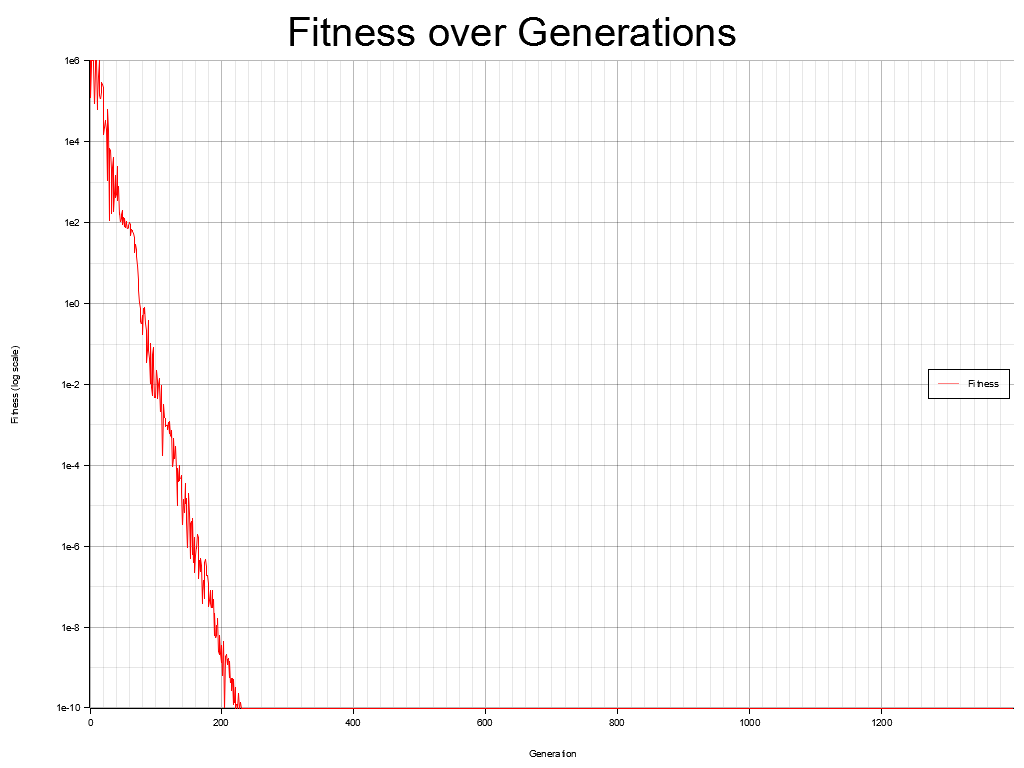
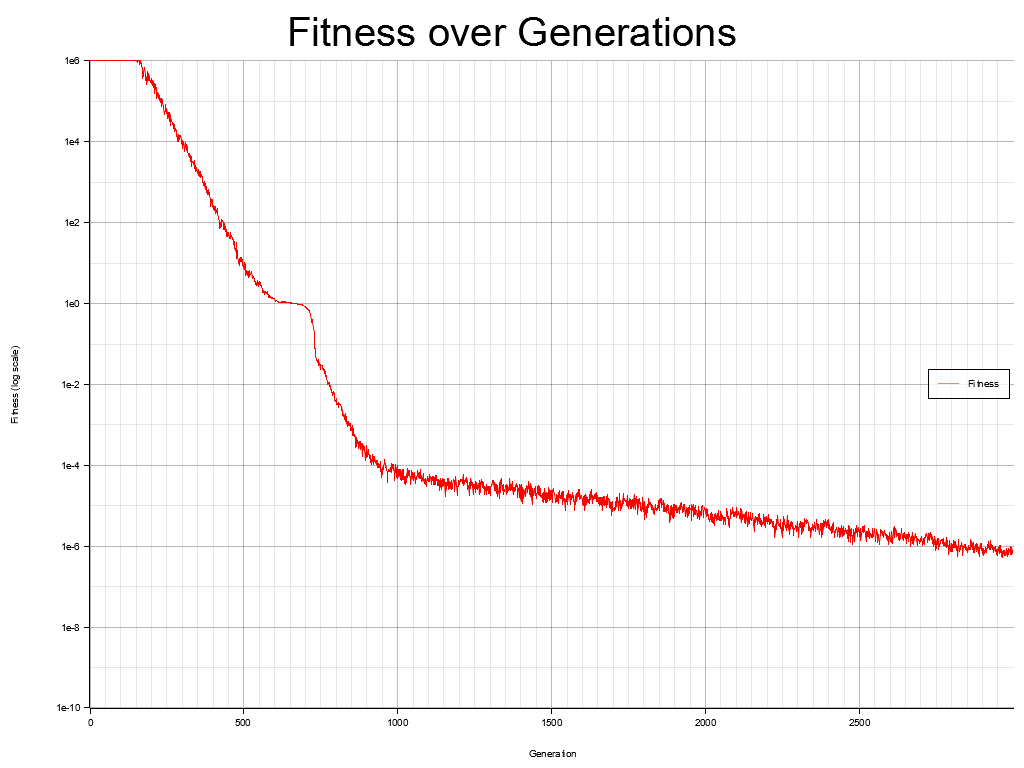
abs value functions, refactor

diff --git a/src/main.rs b/src/main.rs
@@ -3,11 +3,9 @@ extern crate plotters;
 
 use plotters::prelude::*;
 use plotters::style::{Color, RED};
-use rand::distributions::{Distribution, Uniform};
 use rand::prelude::*;
 use rand_distr::{Normal, Distribution as OtherDistribution};
 use std::f64;
-use rand_distr::num_traits::real::Real;
 
 static mut MU: usize = 50; // Number of the best solutions to keep
 static mut H: usize = 5; // History size
@@ -22,23 +20,22 @@ static mut MAX_GENERATIONS: usize = 30000; // Max number of generations (will be
 fn main() {
     // Parameter initialization as in the Appendix
     unsafe {
-        DIMENSIONS = 3; // Set your desired dimensions
+        DIMENSIONS = 30; // Set your desired dimensions
         LAMBDA = 4 + (3.0 * (DIMENSIONS as f64).ln()).floor() as usize;
-        // MAX_GENERATIONS = 10000 * DIMENSIONS;
-        MAX_GENERATIONS = 1400;
+        MAX_GENERATIONS = 10000 * DIMENSIONS;
         MU = (LAMBDA as f64 / 2.0).floor() as usize;
         H = 6 + (3.0 * (DIMENSIONS as f64).sqrt()).floor() as usize;
         CC = 1.0 / (DIMENSIONS as f64).sqrt();
         CD = MU as f64 / ((MU + 2) as f64);
         CE = 2.0 / (DIMENSIONS * DIMENSIONS) as f64;
 
-        println!("LAMBDA (Population size): {}", unsafe { LAMBDA });
-        println!("MAX_GENERATIONS: {}", unsafe { MAX_GENERATIONS });
-        println!("MU (No best solutions kept): {}", unsafe { MU });
-        println!("H (History size): {}", unsafe { H });
-        println!("CC (LR for covariance matrix): {}", unsafe { CC });
-        println!("CD (LR for differential weights): {}", unsafe { CD });
-        println!("CE (idk xD): {}", unsafe { CE });
+        println!("LAMBDA (Population size): {}", LAMBDA);
+        println!("MAX_GENERATIONS: {}", MAX_GENERATIONS);
+        println!("MU (No best solutions kept): {}", MU);
+        println!("H (History size): {}", H);
+        println!("CC (LR for covariance matrix): {}", CC);
+        println!("CD (LR for differential weights): {}", CD);
+        println!("CE (idk xD): {}", CE);
 
         // Fitness function 1
         let mut des1 = DES::new();
@@ -61,31 +58,32 @@ fn main() {
         // Fitness function 4
         let mut des4 = DES::new();
         des4.run(
-            |x| x.iter().enumerate().map(|(i, &xi)| 10_f64.powf(6.0 * (i as f64 - 1.0) / (x.len() as f64 - 1.0)) * xi * xi).sum::<f64>(),
+            |x| x.iter().enumerate().map(|(i, &xi)| 10_f64.powf(6.0 * (i as f64) / (x.len() as f64 - 1.0)) * xi * xi).sum::<f64>(),
             "ellipsoid.png",
         );
         // Fitness function 5
         let mut des5 = DES::new();
         des5.run(
-            |x| x.iter().enumerate().map(|(i, &xi)| xi.powf(2.0 * (1.0 + 5.0 * (i as f64 - 1.0) / (x.len() as f64 - 1.0)))).sum::<f64>(),
+            |x| x.iter().enumerate().map(|(i, &xi)| xi.abs().powf(2.0 * (1.0 + 5.0 * (i as f64) / (x.len() as f64 - 1.0)))).sum::<f64>(),
             "different_powers.png",
         );
+        // Ridge functions:
         // Fitness function 6
         let mut des6 = DES::new();
         des6.run(
-            |x| x[0] + 100.0 * x[1..].iter().map(|&xi| xi * xi).sum::<f64>(),
+            |x| (x[0] + 100.0 * x[1..].iter().map(|&xi| xi * xi).sum::<f64>()).abs(),
             "sharp_ridge.png",
         );
         // Fitness function 7
         let mut des7 = DES::new();
         des7.run(
-            |x| x[0] + 100.0 * (x[1..].iter().map(|&xi| xi * xi).sum::<f64>()).sqrt(),
+            |x| (x[0] + 100.0 * x[1..].iter().map(|&xi| xi * xi).sum::<f64>().sqrt()).abs(),
             "parabolic_ridge.png",
         );
         // Fitness function 8
         let mut des8 = DES::new();
         des8.run(
-            |x| (0..x.len() - 1).map(|i| 100.0 * (x[i] * x[i] - x[i + 1] * x[i + 1]) + (x[i] - 1.0).powi(2)).sum::<f64>(),
+            |x| (0..x.len() - 1).map(|i| 100.0 * (x[i] * x[i] - x[i + 1] * x[i + 1]) + (x[i] - 1.0).powi(2)).sum::<f64>().abs(),
             "Rosenbrock.png",
         );
     }
@@ -97,8 +95,6 @@ struct DES {
     p_history: Vec<Vec<f64>>, // dim: t x DIMENSIONS // one value per LAMBDA population
     m: Vec<f64>, // Just the previous m // one value per LAMBDA population
     rng: ThreadRng,
-    uniform: Uniform<f64>,
-    normal: Normal<f64>,
     generation: usize,
 }
 
@@ -113,20 +109,8 @@ impl DES {
             p_history: Vec::new(),
             m: vec![0.0; unsafe { DIMENSIONS }],
             rng,
-            uniform: Uniform::new(0.0, 1.0).unwrap(),
-            normal: Normal::new(0.0, 1.0).unwrap(),
             generation,
         }
-    }
-
-    fn evaluate<F>(&self, fitness_fn: F) -> Vec<f64>
-    where
-        F: Fn(&Vec<f64>) -> f64,
-    {
-        self.population_history.last().unwrap()
-            .iter()
-            .map(|individual| fitness_fn(individual))
-            .collect()
     }
 
     fn stop_condition(&self) -> bool {
@@ -165,14 +149,12 @@ impl DES {
         // Initialize: stage 1 - stage 4 in the article
         self.initialize(&fitness_fn);
 
-        let mut fitness_values = self.evaluate(&fitness_fn);
         let mut best_fitness_history = vec![];
 
         while !self.stop_condition() {
-            fitness_values = self.evaluate(&fitness_fn);
-            let best_fitness = fitness_values.first().expect("Var fitness_values cannot be empty");
-            best_fitness_history.push(*best_fitness);
-            println!("Generation {}: Best fitness = {}", self.generation, *best_fitness);
+            let best_fitness = fitness_fn(self.population_history.last().unwrap().first().unwrap());
+            best_fitness_history.push(best_fitness);
+            // println!("Generation {}: Best fitness = {}", self.generation, *best_fitness);
 
             let t_idx = self.generation - 1; // Index from t
             let old_m = self.m.clone();
@@ -234,7 +216,7 @@ impl DES {
             }
 
             // Evaluate new population and sort by fitness
-            fitness_values = new_population.iter().map(|ind| fitness_fn(ind)).collect();
+            let fitness_values: Vec<f64> = new_population.iter().map(|ind| fitness_fn(ind)).collect();
             let mut sorted_indices: Vec<usize> = (0..LAMBDA).collect();
             sorted_indices.sort_by(|&a, &b| fitness_values[a].partial_cmp(&fitness_values[b]).unwrap());
             new_population = sorted_indices.into_iter().map(|i| new_population[i].clone()).collect();
@@ -244,13 +226,20 @@ impl DES {
         }
 
         // Plot the fitness values
-        self.plot_fitness(best_fitness_history, plot_file);
+        self.plot_fitness(best_fitness_history.clone(), plot_file);
+
+
+        // Print the last population (the best member) and fitness value
+        println!("Function {}", &plot_file[..plot_file.rfind('.').unwrap_or(plot_file.len())]);
+        println!("Best fitness = {}", best_fitness_history.last().unwrap());
+        let last_x: &Vec<f64> = self.population_history.last().unwrap().first().unwrap();
+        for value in last_x.iter() {
+            println!("{:.4}", value); // Printing each value with 4 decimal places for clarity
+        }
+        println!();
     }
 
     fn plot_fitness(&self, fitness_values: Vec<f64>, plot_file: &str) {
-        // Determine the maximum fitness value for setting the y-axis range
-        *fitness_values.iter().max_by(|a, b| a.partial_cmp(b).unwrap()).unwrap();
-
         // Initialize the plot
         let root_area = BitMapBackend::new(plot_file, (1024, 768)).into_drawing_area();
         root_area.fill(&WHITE).unwrap();
